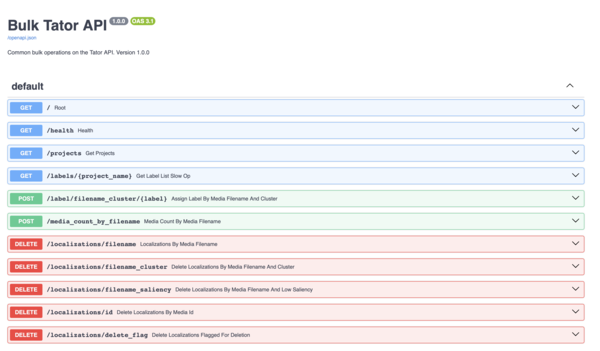
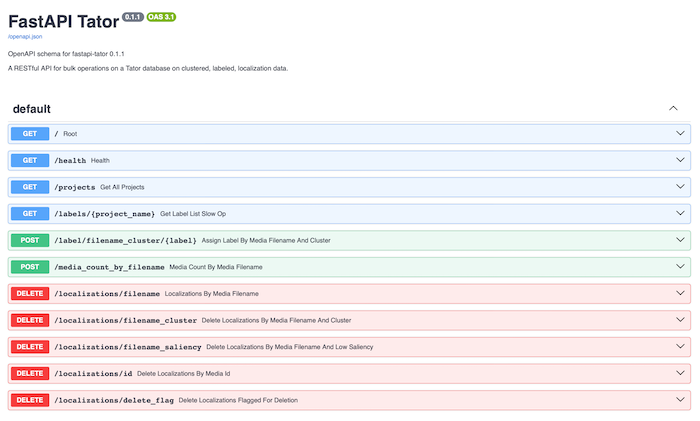
feat: added label counts to /labels/{project_name}

Changed region(s): [[0.0, 0.2279, 0.99, 0.9972], [0.0, 0.0285, 0.42, 0.1709], [0.93, 0.2279, 0.96, 0.2849]]

diff --git a/src/app/main.py b/src/app/main.py
@@ -99,10 +99,10 @@ async def get_all_projects():
 @app.get("/labels/{project_name}", status_code=status.HTTP_200_OK)
 async def get_label_list_slow_op(project_name: str):
     """
-    Get the list of unique labels associated with a Tator project.
+    Get the list of unique labels associated with a Tator project and the count of each label.
     :param project_name: the name of the project
     :param api: The Tator API object.
-    :return: A list of labels.
+    :return: A list of labels and the count of each label.
     """
     spec = get_project_spec(api, project_name)
 
@@ -112,14 +112,21 @@ async def get_label_list_slow_op(project_name: str):
     # Fetch the list of labels associated with the project
     num_boxes = api.get_localization_count(project=spec.project_id)
     unique_labels = set()
+    label_count = {}
     batch_size = 500
     for i in range(0, num_boxes, batch_size):
         localization_list = api.get_localization_list(project=spec.project_id, start=i, stop=i + batch_size)
         labels = set(loc.attributes["Label"] for loc in localization_list)
         unique_labels.update(labels)
+        for l in unique_labels:
+            if l not in label_count:
+                label_count[l] = 0
+
+            label_count[l] += sum(1 for loc in localization_list if loc.attributes["Label"] == l)
 
     info(f"Found {len(unique_labels)} unique label(s) in project {spec.project_id}")
-    return {"labels": [loc for loc in unique_labels]}
+    # Return a dictionary of labels/counts pairs
+    return {"labels": label_count}
 
 
 @app.post("/label/filename_cluster/{label}", status_code=status.HTTP_200_OK)

diff --git a/src/app/__init__.py b/src/app/__init__.py
@@ -1,2 +1,2 @@
 #!/usr/bin/env python
-__version__ = "0.1.0"
+__version__ = "0.1.2"

diff --git a/README.md b/README.md
@@ -14,6 +14,7 @@ This API can, for example,
 -  Change a localization label in a given [sdcat](https://github.com/mbari-org/sdcat) generated cluster by query criteria, e.g. media (partial) name, model version
 -  Delete localizations with low saliency scores in a given project
 -  Report how many localizations for a given project are flagged for deletion
+-  Delete all localizations flagged for deletion in a given project
 
 --- 
 ![](https://raw.githubusercontent.com/mbari-org/fastapi-tator/main/docs/imgs/restwebui.png)
@@ -29,15 +30,17 @@ For development, you will need:
 - [Python >=3.12](https://www.python.org/downloads/)
 - [Anaconda](https://www.anaconda.com/)
 - [Docker](https://docs.docker.com/get-docker/)
-- [Docker Compose](https://docs.docker.com/compose/install/) 
+- [Docker Compose](https://docs.docker.com/compose/install/)
+- [Tator](http://github.com/mbari-org/tator)
 
 # Deployment
 
-## Clone the repository
+## Clone the repository and run the docker compose file
 
 ```shell
 git clone https://github.com/mbari-org/fastapi-tator
 cd fastapi-tator
+make tator
 ```
 
 ## Fetch your API key for Tator
@@ -78,5 +81,4 @@ Check the health of the server by going to `http://localhost:8000/health`.  You 
 
 ## Related work
  
-* https://github.com/mbari-org/tator [MBARI fork of Tator with additional features]
-* https://github.com/mbari-org/sdat [Sliced Detection and Clustering Analysis Toolkit]
+* https://github.com/mbari-org/sdcat [Sliced Detection and Clustering Analysis Toolkit]
